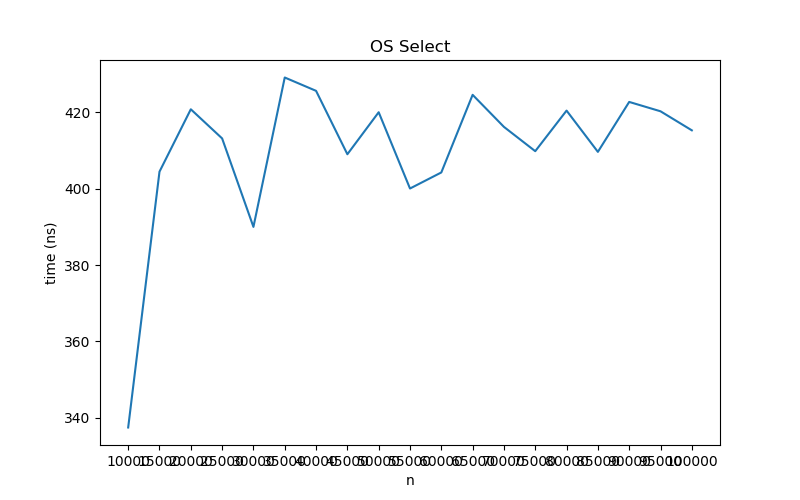
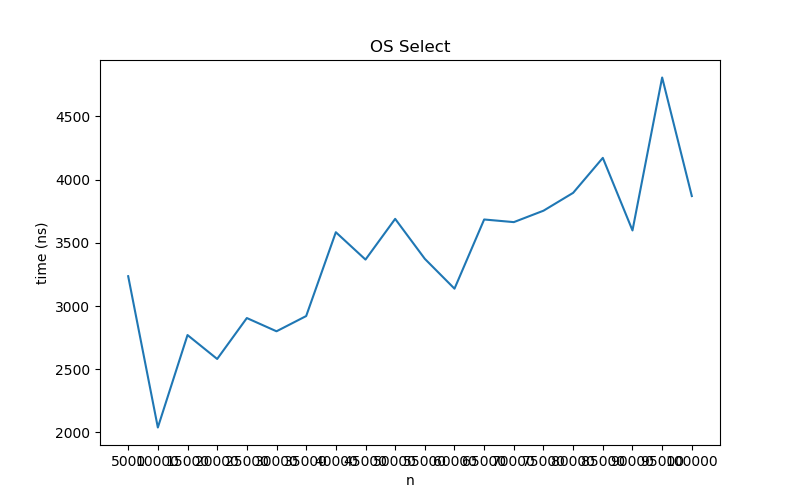
OS Select fixed, code ready for testing

diff --git a/Python/OSTrees/os_trees.py b/Python/OSTrees/os_trees.py
@@ -423,16 +423,16 @@ def plot_graph(filename, heading, time, n):
     plt.figure(figsize=(8, 5))
     plt.xlabel('n')
     plt.ylabel('time (ns)')
-    plt.title(heading)
+    plt.title(heading)    
     plt.xticks(x)
     ax = sns.lineplot(x, time)
-    ax.set_xticklabels(n)
+    ax.set_xticklabels(np.arange(min(n), max(n), 20000))
     plt.savefig(filename + '.png')
     plt.show() 
 
 if __name__ == "__main__":
 
-    n = np.arange(5000, 105000, 5000)
+    n = np.arange(1000, 201000, 1000)
     avg_times = 1
 
     insert_time = []
@@ -466,9 +466,9 @@ if __name__ == "__main__":
                 nodes.append(node)
                 end_insert = time.time_ns()
 
-                # start_select = time.time_ns()
-                # ost.tree_os_select(node, 2)
-                # end_select = time.time_ns()
+                start_select = time.time_ns()
+                ost.tree_os_select(ost.root, np.random.choice(np.arange(1, i)))
+                end_select = time.time_ns()
             
                 start_rank = time.time_ns()
                 ost.tree_os_rank(node)
@@ -480,29 +480,29 @@ if __name__ == "__main__":
 
                 rb_insert += end_insert - start_insert
                 rb_delete += end_delete - start_delete
-                # os_select += end_select - start_select
+                os_select += end_select - start_select
                 os_rank += end_rank - start_rank
             
             avg_insert += rb_insert/len(random_insert)
             avg_delete += rb_delete/len(random_insert)
-            # avg_select += os_select/len(random_insert)
+            avg_select += os_select/len(random_insert)
             avg_rank += os_rank/len(random_insert)
         
         insert_time.append(avg_insert/avg_times)
         delete_time.append(avg_delete/avg_times)
-        # select_time.append(avg_select/avg_times)
+        select_time.append(avg_select/avg_times)
         rank_time.append(avg_rank/avg_times)
 
     print(insert_time)
     x = np.linspace(1, len(n), len(n))
     print(x)
     print(delete_time)
-    # print(select_time)
+    print(select_time)
     print(rank_time)
 
     plot_graph('rb_insert', 'RB Insert', insert_time, n)
     plot_graph('rb_delete', 'RB Delete', delete_time, n+1)
-    # plot_graph('os_select', 'OS Select', select_time, n)
+    plot_graph('os_select', 'OS Select', select_time, n)
     plot_graph('os_rank', 'OS Rank', rank_time, n)
 
 
